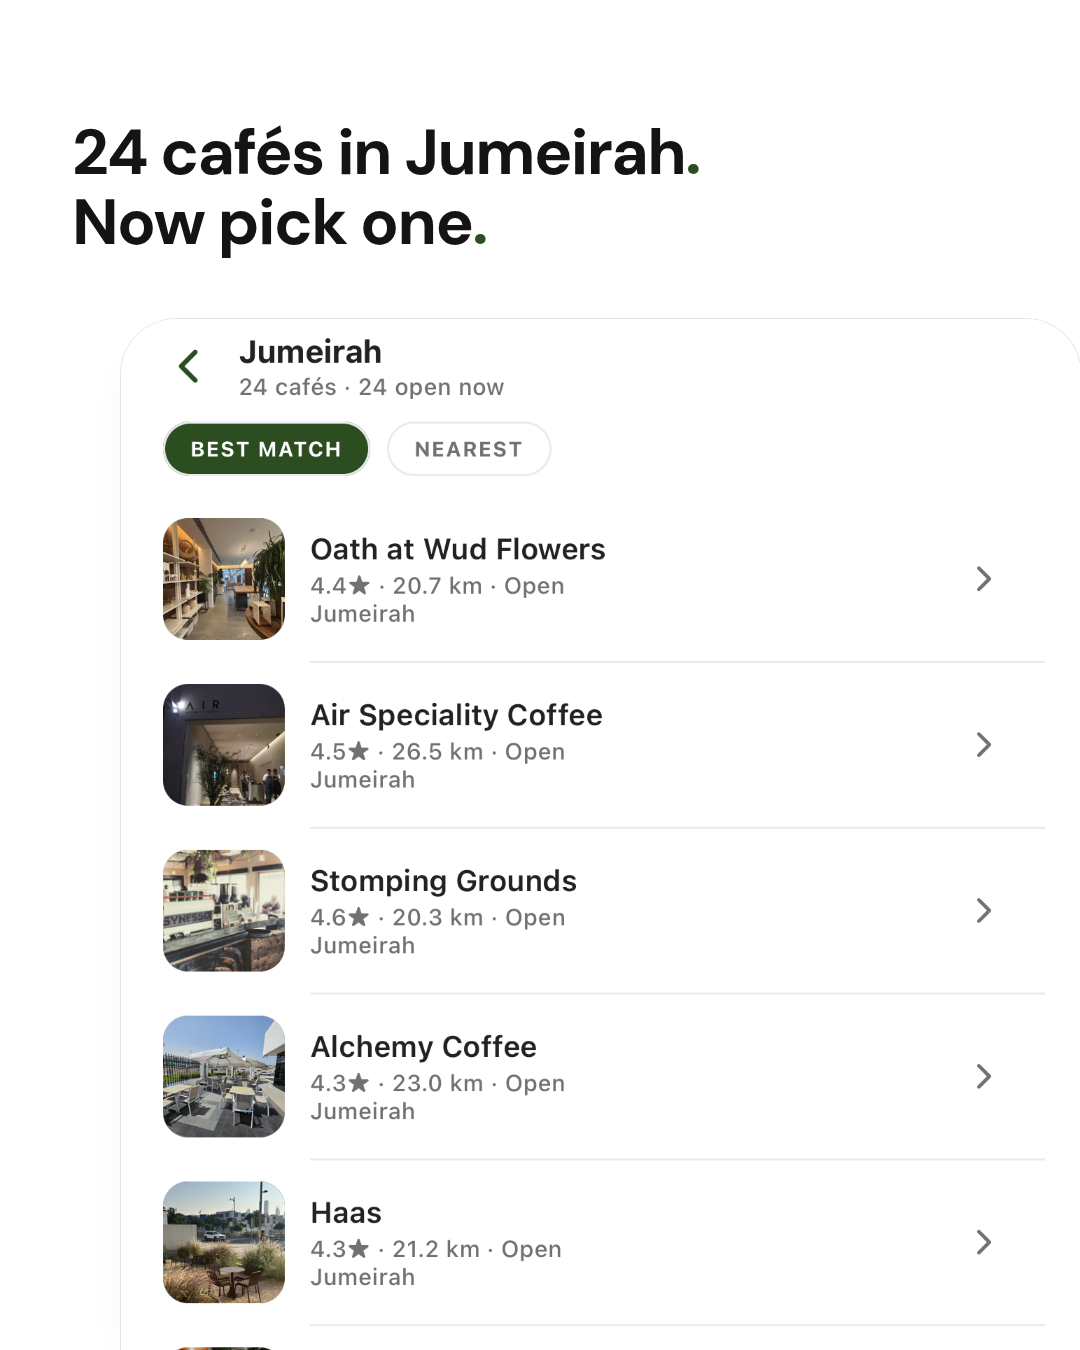
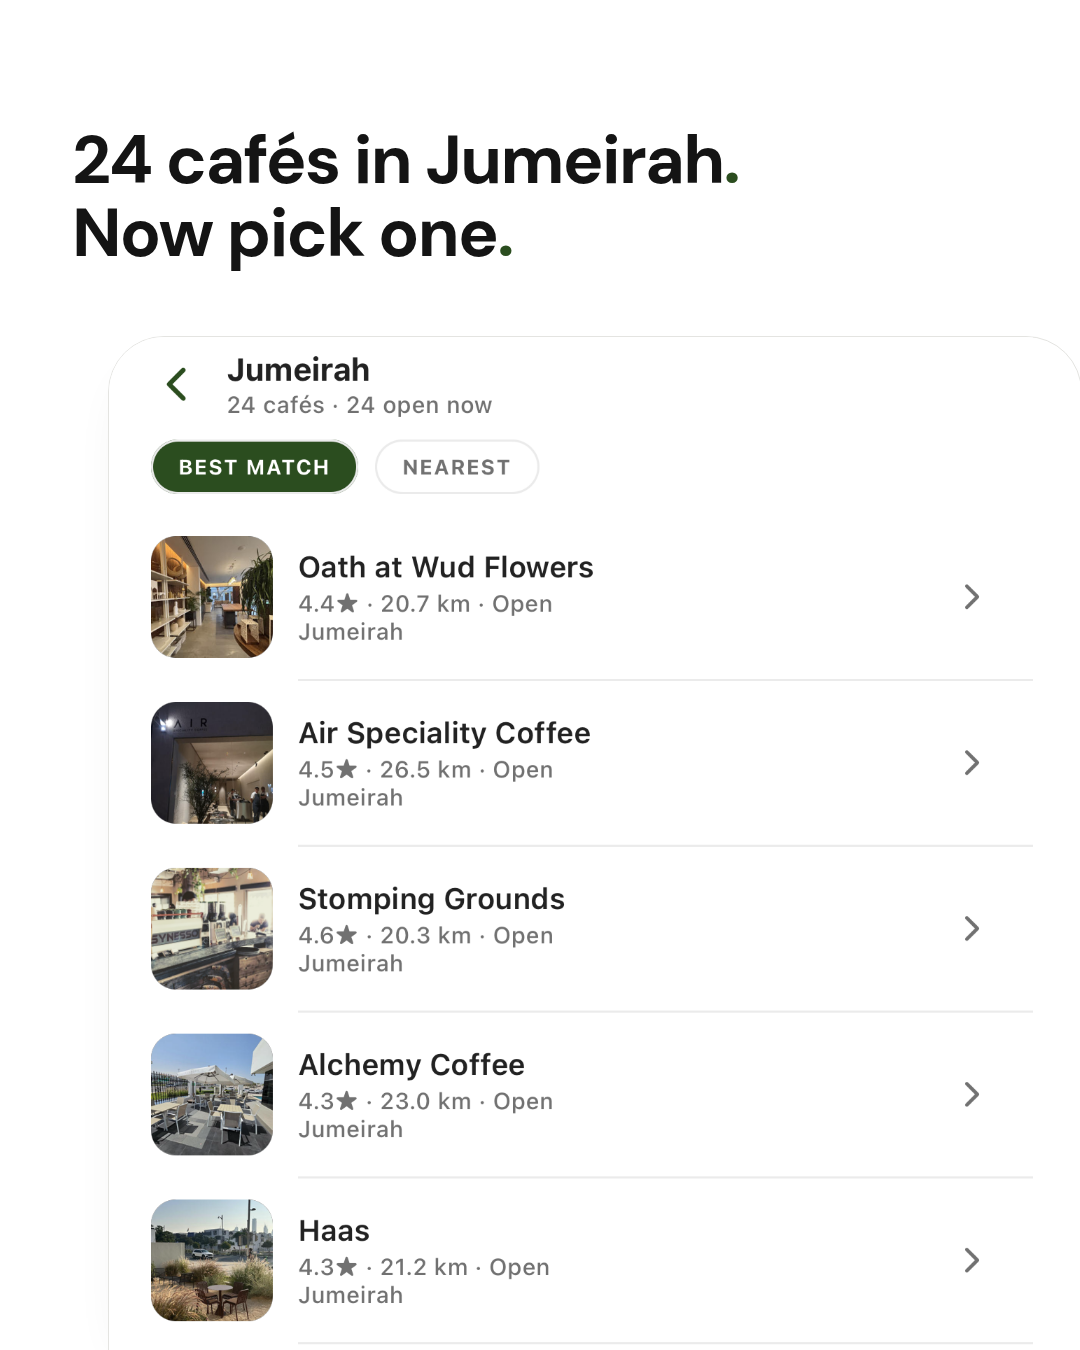
Refine Search by Area carousel: choice, coverage, options, invitation
Slide 2 uses the browse screen as small supporting evidence with
"You pick the area." Slide 3 becomes a coverage slide (29 AREAS. ONE
COFFEE MAP.) with a narrow crop of the emirate-grouped screen. Slide 4
rebalanced. Slide 5 drops the button and card strip for one oversized
Al Quoz card and a more visible logo.

Claude-Session: https://claude.ai/code/session_01UCKVHF8Bj15Neb29ir5cAN

diff --git a/marketing/instagram/search-by-area/source/slide-3.html b/marketing/instagram/search-by-area/source/slide-3.html
@@ -1,9 +1,9 @@
 <link rel="stylesheet" href="slides.css">
-<h1 class="abs" style="left:72px;top:118px;font-size:72px;">Coffee, area by area<span class="g">.</span></h1>
-<div class="abs sub" style="left:72px;top:212px;">Browse neighbourhoods across the UAE.</div>
-<!-- Sharjah → Dubai grouping. Zoomed out so both emirate headers sit on the canvas. -->
-<div class="shot" style="left:300px;top:300px;width:780px;height:1050px;--s:0.55;--x:0;--y:560;"><img src="src/browse-sharjah.png"></div>
-<!-- margin ticks aligned to the two emirate headers (SHARJAH y=589, DUBAI y=2316 in shot px) -->
-<div class="abs" style="left:236px;top:314px;width:2px;height:966px;background:var(--hair);"></div>
-<div class="abs" style="left:228px;top:310px;width:18px;height:18px;border-radius:50%;background:var(--green);"></div>
-<div class="abs" style="left:228px;top:1257px;width:18px;height:18px;border-radius:50%;background:var(--green);"></div>
+<h1 class="abs" style="left:72px;top:120px;font-size:124px;line-height:0.95;">29 AREAS<span class="g">.</span></h1>
+<h1 class="abs" style="left:72px;top:250px;font-size:76px;line-height:1;">ONE COFFEE MAP<span class="g">.</span></h1>
+<div class="abs sub" style="left:72px;top:352px;">Across the UAE.</div>
+<!-- Narrow column of the emirate-grouped screen: Sharjah header, Aljada, Khor Fakkan, Dubai header, Deira top -->
+<div class="shot" style="left:620px;top:420px;width:460px;height:930px;--s:0.5;--x:0;--y:560;"><img src="src/browse-sharjah.png"></div>
+<div class="abs" style="left:582px;top:436px;width:2px;height:880px;background:var(--hair);"></div>
+<div class="abs" style="left:574px;top:428px;width:18px;height:18px;border-radius:50%;background:var(--green);"></div>
+<div class="abs" style="left:574px;top:1298px;width:18px;height:18px;border-radius:50%;background:var(--green);"></div>

diff --git a/marketing/instagram/search-by-area/source/slide-5.html b/marketing/instagram/search-by-area/source/slide-5.html
@@ -1,10 +1,6 @@
 <link rel="stylesheet" href="slides.css">
-<img class="abs" src="src/logo-green.png" style="left:940px;top:124px;width:68px;">
 <h1 class="abs" style="left:72px;top:132px;font-size:84px;line-height:1.02;">Where are we<br>having coffee<span class="g">?</span></h1>
-<div class="abs sub" style="left:72px;top:330px;">Explore the UAE with BrewMaps.</div>
-<div class="abs pill" style="left:72px;top:404px;">Open BrewMaps</div>
-<!-- Closing strip of real area cards (Sharjah + Dubai), staggered, running off both edges -->
-<div class="shot" style="left:-200px;top:846px;width:352px;height:462px;--s:0.6;--x:60;--y:635;"><img src="src/browse-sharjah.png"></div>   <!-- Aljada -->
-<div class="shot" style="left:228px;top:770px;width:352px;height:462px;--s:0.6;--x:60;--y:523;"><img src="src/browse-top.png"></div>      <!-- Jumeirah -->
-<div class="shot" style="left:598px;top:846px;width:352px;height:462px;--s:0.6;--x:60;--y:621;"><img src="src/browse-dubai.png"></div>    <!-- Deira -->
-<div class="shot" style="left:968px;top:770px;width:352px;height:462px;--s:0.6;--x:673;--y:523;"><img src="src/browse-top.png"></div>     <!-- City Walk -->
+<div class="abs sub" style="left:72px;top:330px;line-height:1.35;">Pick an area.<br>We’ll show you the coffee.</div>
+<img class="abs" src="src/logo-green.png" style="left:72px;top:1180px;width:132px;">
+<!-- One oversized real area card (Al Quoz) rising from the bottom edge -->
+<div class="shot" style="left:436px;top:470px;width:644px;height:880px;--s:1.15;--x:673;--y:1331;"><img src="src/browse-top.png"></div>

diff --git a/marketing/instagram/search-by-area/source/slide-2.html b/marketing/instagram/search-by-area/source/slide-2.html
@@ -1,5 +1,5 @@
 <link rel="stylesheet" href="slides.css">
-<h1 class="abs" style="left:72px;top:176px;font-size:72px;font-weight:600;line-height:1.12;">Jumeirah<span class="g">?</span><br>Al Quoz<span class="g">?</span><br>City Walk<span class="g">?</span></h1>
-<div class="abs sub" style="left:72px;top:466px;width:340px;font-size:26px;">Choose where you want<br>to explore.</div>
-<!-- Full Browse by area screen with header, entering from the right, bleeding bottom -->
-<div class="shot frame" style="left:452px;top:140px;width:628px;height:1210px;--s:0.62;--x:0;--y:372;"><img src="src/browse-top.png"></div>
+<h1 class="abs" style="left:72px;top:150px;font-size:84px;font-weight:600;line-height:1.1;">Jumeirah<span class="g">?</span><br>Al Quoz<span class="g">?</span><br>City Walk<span class="g">?</span></h1>
+<div class="abs sub" style="left:72px;top:474px;">You pick the area.</div>
+<!-- Browse by area screen as evidence: small, entering from the right, Jumeirah full, City Walk and Al Quoz cut -->
+<div class="shot frame" style="left:640px;top:600px;width:440px;height:750px;--s:0.5;--x:0;--y:372;"><img src="src/browse-top.png"></div>

diff --git a/marketing/instagram/search-by-area/source/slide-4.html b/marketing/instagram/search-by-area/source/slide-4.html
@@ -1,4 +1,3 @@
 <link rel="stylesheet" href="slides.css">
-<h1 class="abs" style="left:72px;top:118px;font-size:64px;line-height:1.1;">24 cafés in Jumeirah<span class="g">.</span><br>Now pick one<span class="g">.</span></h1>
-<!-- Jumeirah results screen: header, sort chips and five full result rows readable -->
-<div class="shot frame" style="left:120px;top:318px;width:960px;height:1032px;--s:0.7;--x:0;--y:372;"><img src="src/jumeirah-list.png"></div>
+<h1 class="abs" style="left:72px;top:124px;font-size:68px;line-height:1.08;">24 cafés in Jumeirah<span class="g">.</span><br>Now pick one<span class="g">.</span></h1>
+<div class="shot frame" style="left:108px;top:336px;width:972px;height:1014px;--s:0.7;--x:0;--y:372;"><img src="src/jumeirah-list.png"></div>
